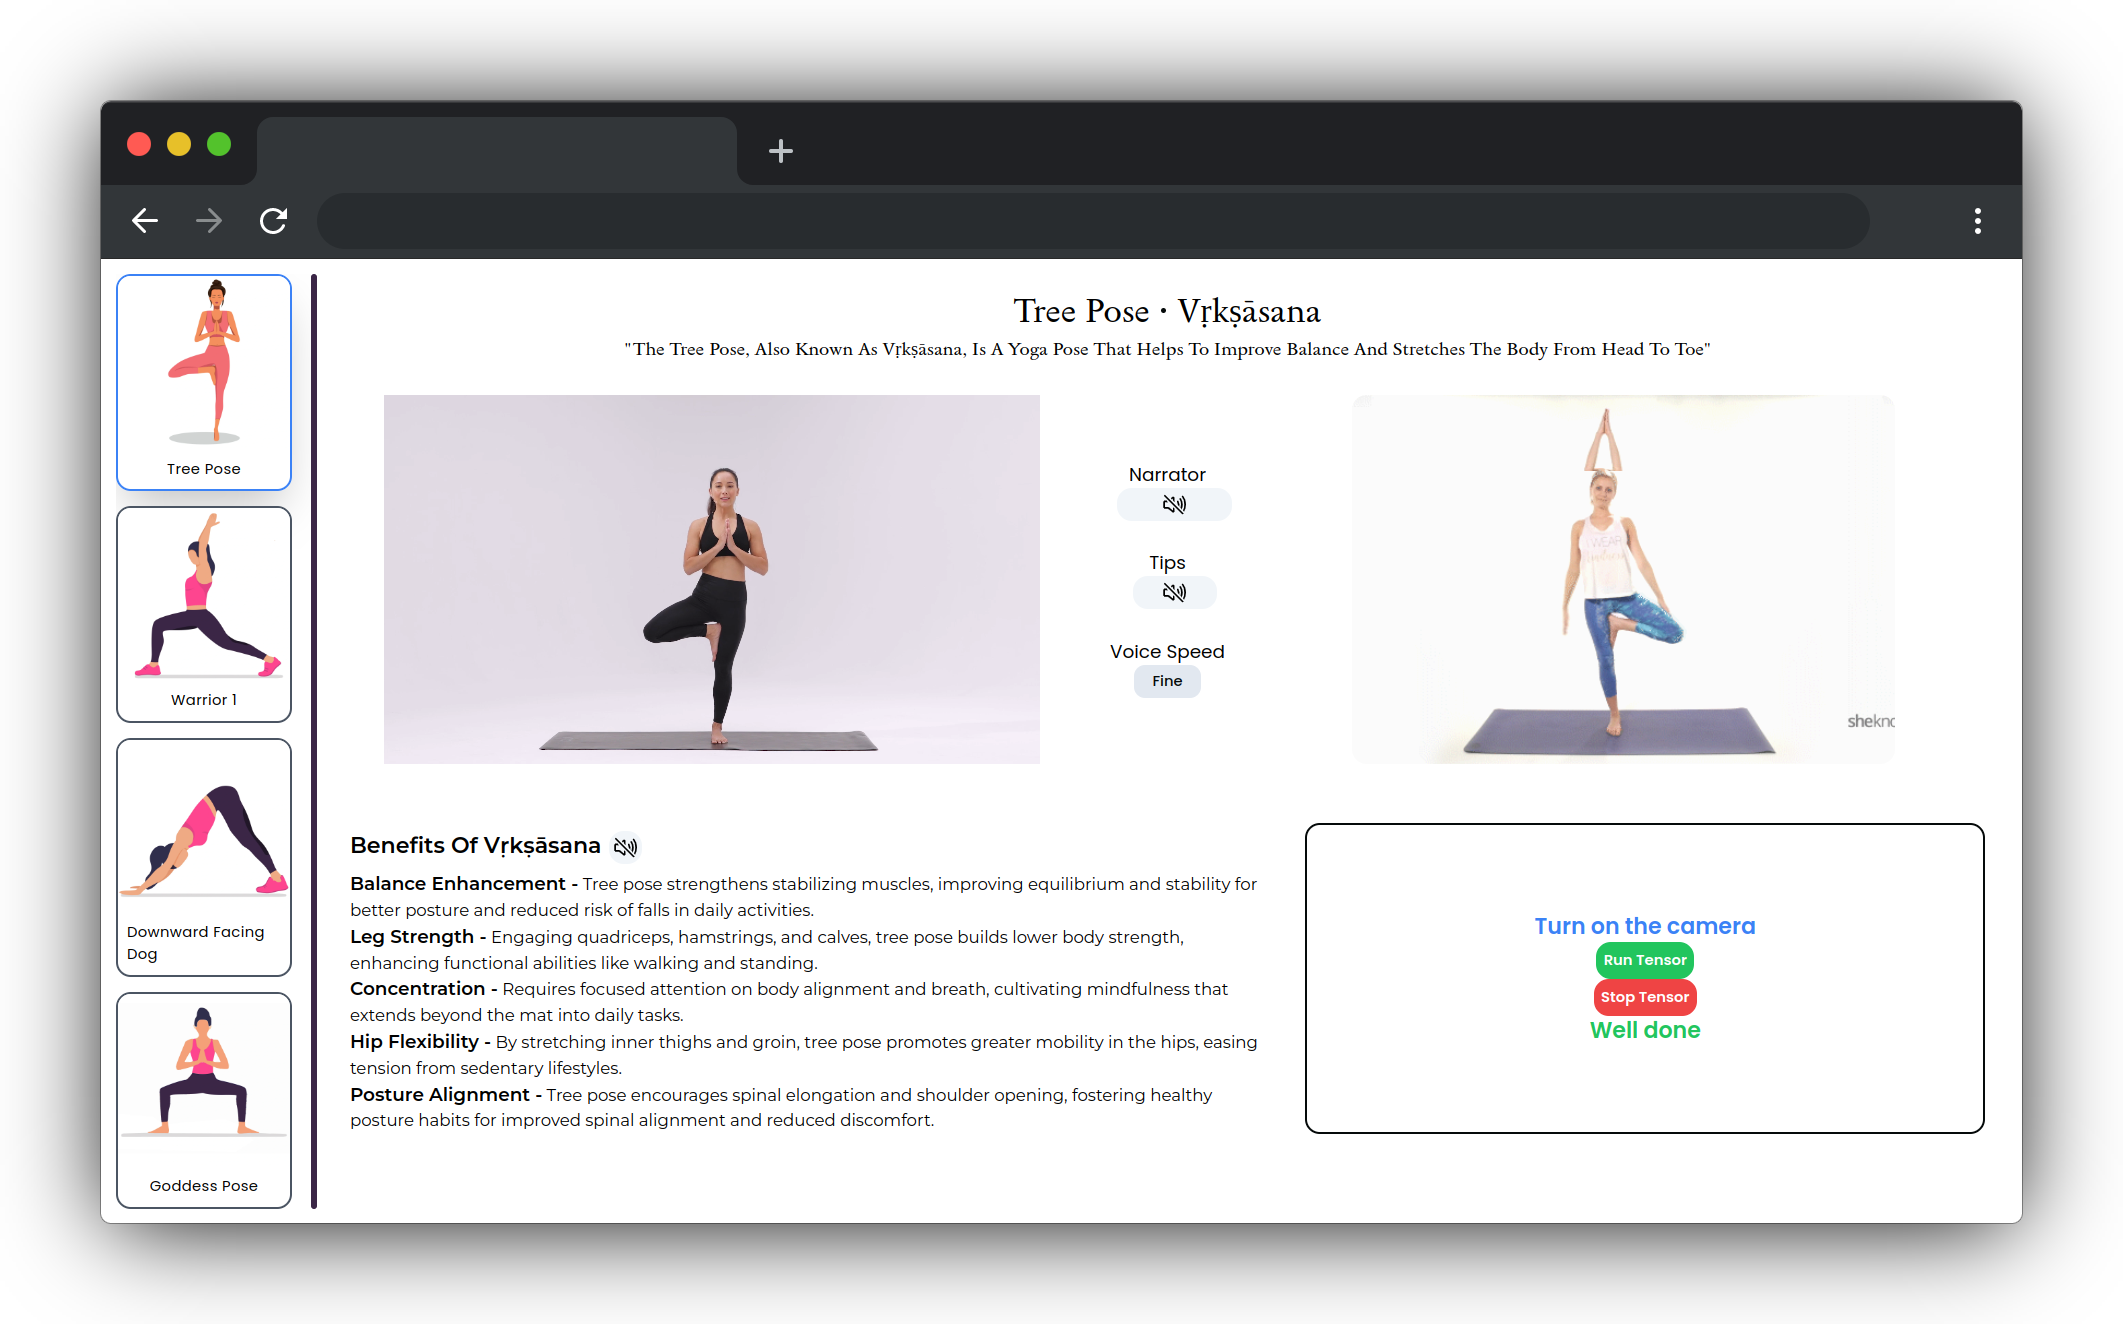
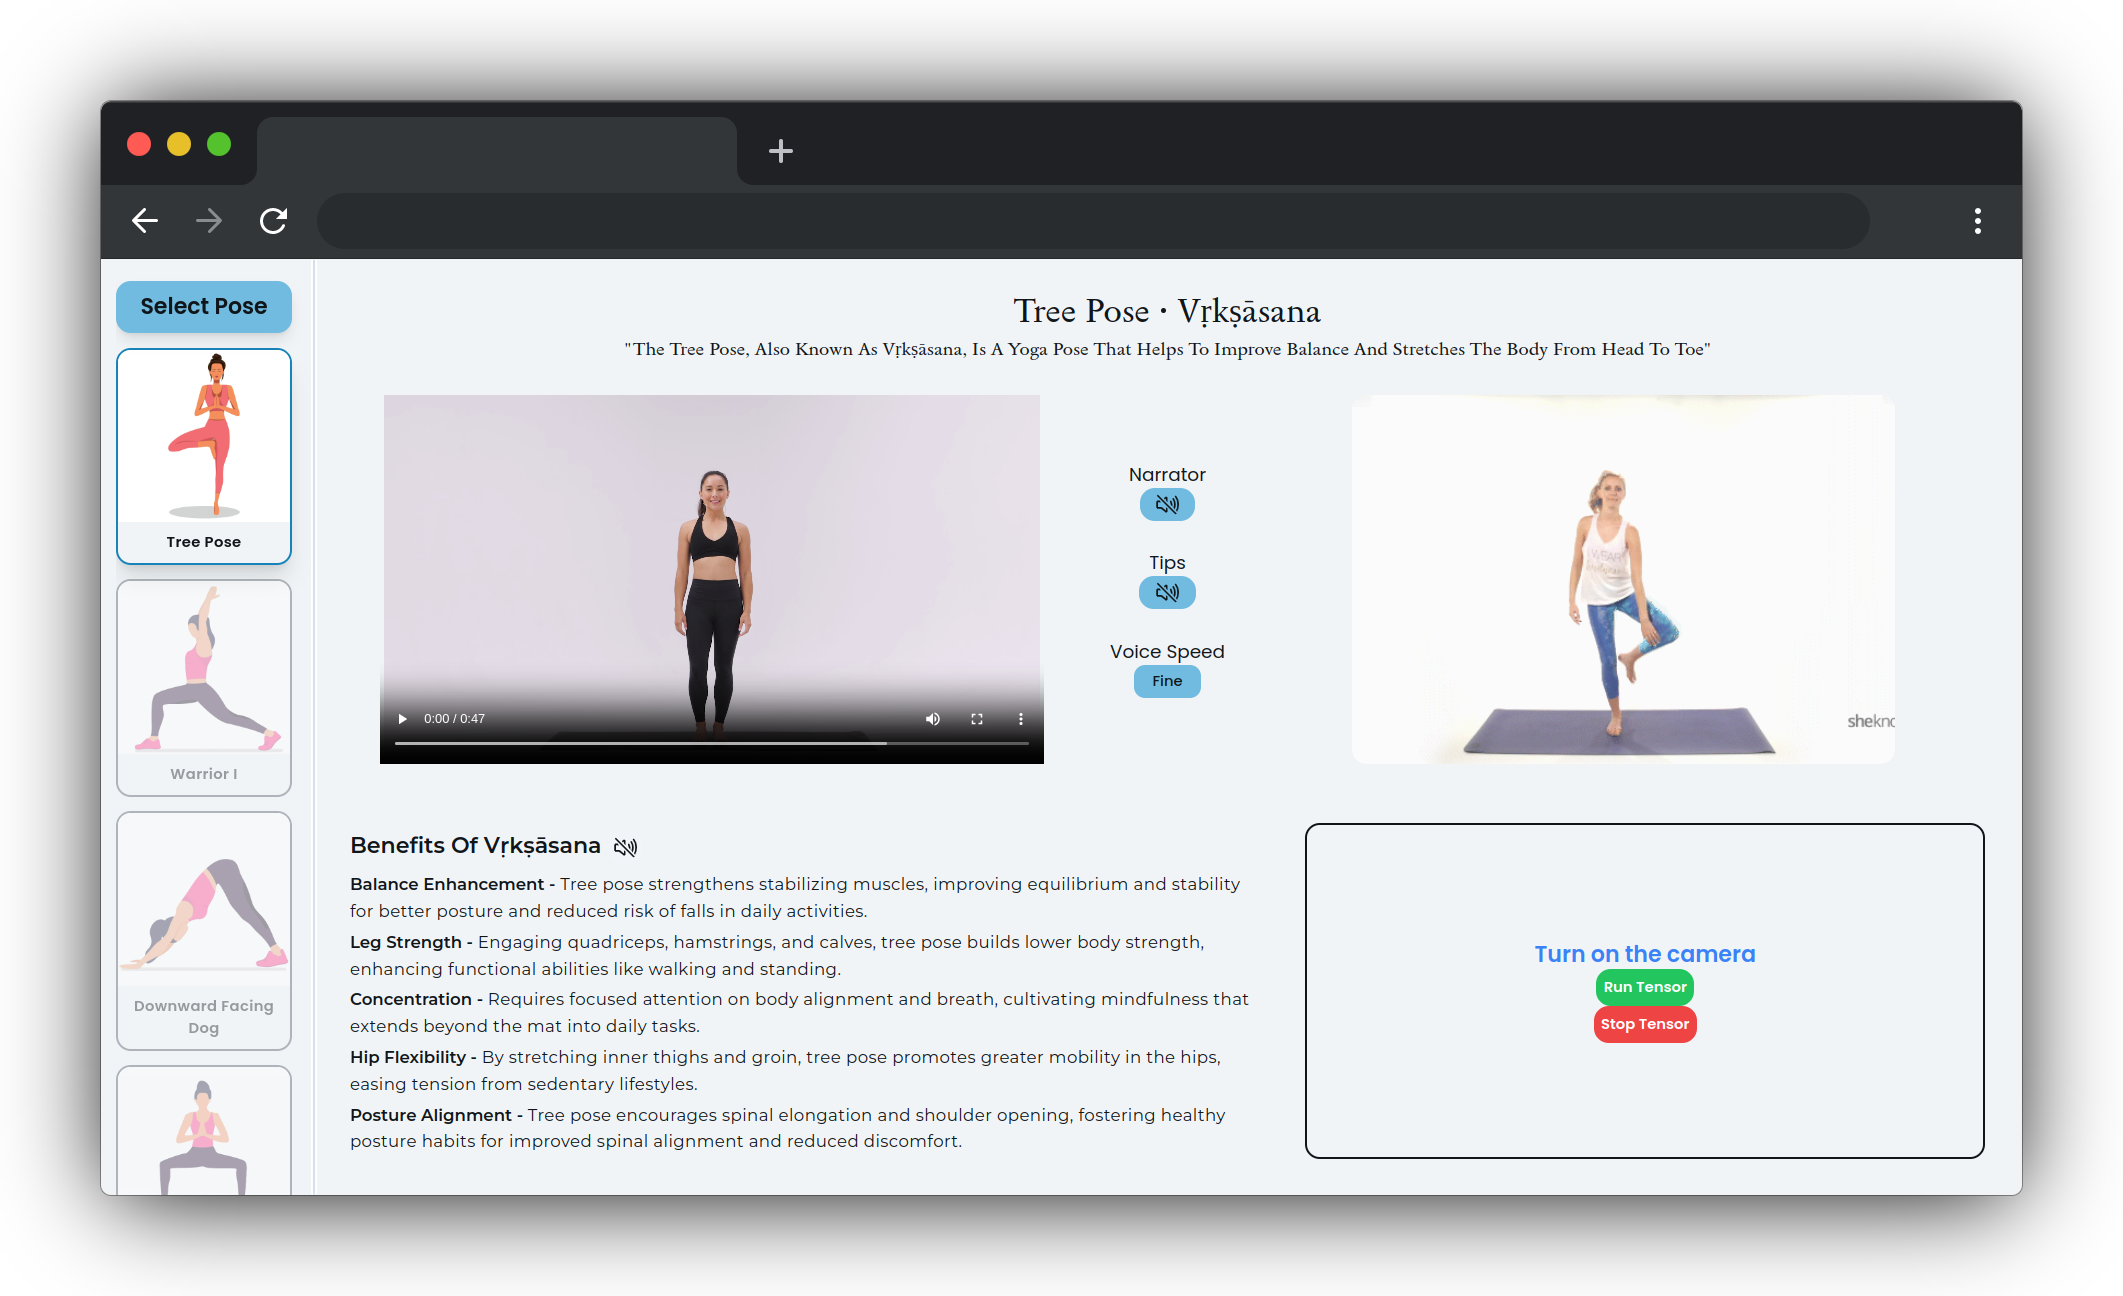
ui improvement

diff --git a/src/app/components/Sidebar.tsx b/src/app/components/Sidebar.tsx
@@ -1,33 +1,75 @@
 'use client'
 
 import Image from "next/image"
-import {YogaPose} from "../interface/CustomInterface"
-import { useState } from "react";
-
+import { YogaPose } from "../interface/CustomInterface"
+import { useEffect, useState } from "react";
+import { ToastContainer, toast, Zoom, } from 'react-toastify';
+import 'react-toastify/dist/ReactToastify.css';
 
 export default function Sidebar(props: any) {
-    const [highlight,setHighlight] = useState<number>(101);
-    
-    const pose = props.pose
-    
+    const [highlight, setHighlight] = useState<number>(101);
+    const [grayedOut, setGrayedOut] = useState<number | null>(null);
 
-    // console.log(highlight);
-    
+    const pose = props?.pose
+
+
     function handleSelectYogaPose(selectedPose: YogaPose) {
+        setGrayedOut(selectedPose.id)
         setHighlight(selectedPose.id)
         props.setSelectedPose(selectedPose.id)
     }
 
+    const selectionMessage: Array<string> = ["👍 Great choice! Awesome!", "🌟 Fantastic pick! You're on fire!", "🙌 Amazing selection! Keep it up!", "💪 Superb choice! You're crushing it!", "🔥 Brilliant pick! You're unstoppable!", "🎉 Impressive choice! Keep that momentum!", "🌟 Terrific pick! You're a star!", "🌺 Splendid selection! You're in your element!", "🌟 Marvelous pick! Keep up the magic!"]
+    const notify = () => toast(
+        selectionMessage[Math.floor(Math.random() * selectionMessage.length)],
+        { progressStyle: { color: "green" } }
+    )
+
+    useEffect(() => {
+        notify()
+    }, [highlight])
+
+    function toggleDarkMode() {
+        console.log("prsd");
+    const body = document.querySelector('body');
+    const dataTheme = body.getAttribute('data-theme');
+
+    if (dataTheme === 'dark') {
+        body.setAttribute('data-theme', 'light');
+    } else {
+        body.setAttribute('data-theme', 'dark');
+    }
+    }
+
     return (
         <>
+            <ToastContainer
+                position="top-right"
+                autoClose={3000}
+                hideProgressBar={false}
+                newestOnTop={false}
+                closeOnClick
+                rtl={false}
+                pauseOnFocusLoss
+                draggable
+                pauseOnHover={false}
+                theme="light"
+                transition={Zoom}
+            />
+
             <div className="lg:w-[22%] xl:w-[12%]">
-                <div className="m-4 mx-4  grid grid-cols-1 gap-4 overflow-y-auto  sidebar_scrollable">
+                <div className="mx-4  grid grid-cols-1 gap-4 overflow-y-auto  sidebar_scrollable">
+                    <span
+                        onClick={toggleDarkMode}
+                        className="text-2xl text-center mt-6 bg-secondary p-3 rounded-2xl font-semibold text-text sticky top-3 z-50 shadow-lg">
+                        Select Pose
+                    </span>
                     {pose && pose?.map((name: YogaPose, idx: number) => (
 
                         <div
                             key={idx}
                             onClick={() => handleSelectYogaPose(name)}
-                            className={`min-h-[100px] rounded-2xl overflow-hidden hover:bg-gray-200 border-[3px] ${highlight === name.id ? "border-blue-500 shadow-2xl" : "border-gray-600"}`}>
+                            className={`min-h-[100px] rounded-2xl overflow-hidden hover:bg-accent border-[3px] ${highlight === name.id ? "border-accent shadow-xl opacity-100 brightness-100 animate-fade animate-once animate-ease-in animate-duration-300" : "border-gray-600"} ${grayedOut && "opacity-40 brightness-60"}`}>
                             <Image
                                 src={`/pose/image/webp/${name?.image}`}
                                 alt={name?.name}
@@ -39,12 +81,14 @@ export default function Sidebar(props: any) {
 
                             </Image>
 
-                            <span className="m-1.5 p-1 capitalize tracking-wide flex justify-center">
+                            <span className="m-1.5 p-1 capitalize tracking-wide flex justify-center text-text text-center font-semibold">
                                 {name?.name}
                             </span>
                         </div>
-
                     ))}
+
+                    <div className="mb-10 text-center text-xl">&copy; RAGE  2024</div>
+
 
                 </div>
             </div>

diff --git a/src/app/components/Mainbar.tsx b/src/app/components/Mainbar.tsx
@@ -143,7 +143,7 @@ export default function MainBar(props: YogaPoseDetailed) {
 
     return (
         <>
-            <div className="lg:w-[78%] xl:w-[88%] mt-5 sidebar_scrollable">
+            <div className="lg:w-[78%] xl:w-[88%] mt-5 sidebar_scrollable text-text">
                 <div className="m-4 mx-4">
                     {/* Title */}
                     <div className="grid grid-cols-1 justify-center place-items-center gap-2">
@@ -178,10 +178,10 @@ export default function MainBar(props: YogaPoseDetailed) {
 
                     {/* Controller */}
                     <div className="sm:col-span-1 min-h-[400px]">
-                        <div className="flex text-center flex-col justify-center items-center align-middle h-full max-h-[400px] gap-8">
+                        <div className="flex text-center flex-col justify-center items-center align-middle h-full w-full max-h-[400px] gap-8">
                             <div>
                                 <span className="text-xl">Narrator</span>
-                                <span onClick={() => playAudio(props?.audioData?.mainAudio, "narrator")} className="inline-flex justify-center w-full  align-middle mx-2 rounded-2xl bg-slate-100 hover:bg-slate-200 duration-300 cursor-pointer ">
+                                <span onClick={() => playAudio(props?.audioData?.mainAudio, "narrator")} className="inline-flex justify-center w-1/2  align-middle  rounded-2xl bg-secondary hover:brightness-75 duration-300 cursor-pointer ">
                                     {audioState === "narrator" ? (
                                         <IoVolumeMediumOutline className="text-4xl font-bold p-1" />
 
@@ -193,9 +193,9 @@ export default function MainBar(props: YogaPoseDetailed) {
                                 </span>
                             </div>
 
-                            <div>
+                            <div className="flex flex-col w-full">
                                 <span className="text-xl">Tips</span>
-                                <span onClick={() => playAudio(props?.audioData?.narratorSegment, "tips")} className="inline-flex justify-center w-full  align-middle mx-2 rounded-2xl bg-slate-100 hover:bg-slate-200 duration-300 cursor-pointer ">
+                                <span onClick={() => playAudio(props?.audioData?.narratorSegment, "tips")} className="inline-flex justify-center w-1/2 mx-auto align-middle  rounded-2xl bg-secondary hover:brightness-75 duration-300 cursor-pointer ">
                                     {audioState === "tips" ? (
                                         <IoVolumeMediumOutline className="text-4xl font-bold p-1" />
 
@@ -212,7 +212,7 @@ export default function MainBar(props: YogaPoseDetailed) {
                                 <div className="relative">
                                     <button
                                         onClick={() => setDropdown(!dropdown)}
-                                        className="bg-slate-200 rounded-xl text-text font-medium px-5 py-1.5 text-center inline-flex items-center capitalize">{playbackSpeed}</button>
+                                        className="bg-secondary hover:brightness-75 rounded-xl text-text font-medium px-5 py-1.5 text-center inline-flex items-center capitalize">{playbackSpeed}</button>
 
 
                                     {dropdown &&
@@ -261,11 +261,11 @@ export default function MainBar(props: YogaPoseDetailed) {
                             </div>
 
                             {props?.benefits?.map((text, idx) => (
-                                <div key={idx}>
-                                    <span className="text-xl font-semibold">
+                                <div key={idx} className="mb-1">
+                                    <span className="text-lg font-semibold">
                                         {text.split(":")[0]} -
                                     </span>
-                                    <span className="text-lg">
+                                    <span className="text-lg leading-relaxed tracking-wide">
                                         {text.split(":")[1]}
                                     </span>
                                 </div>

diff --git a/src/app/components/helper/DropdownSelect.tsx b/src/app/components/helper/DropdownSelect.tsx
@@ -11,14 +11,14 @@ export default function DropdownSelect(props: any) {
 
     return (
         <>
-            <div className="mt-2 ml-4">
+            <div className="ml-[1.05rem] mt-2">
                 <div className="rounded-lg shadow absolute animate-fade-down animate-once animate-ease-in-out animate-duration-[300ms]">
-                    <ul className="py-0.5 px-2 rounded-xl bg-slate-200 capitalize">
-                        <li onClick={() => handleOption('slower')} className="py-0.5 px-2 rounded-xl hover:bg-slate-300 duration-500 cursor-pointer">slowest</li>
-                        <li onClick={() => handleOption('slow')} className="py-0.5 px-2 rounded-xl hover:bg-slate-300 duration-500 cursor-pointer">slow</li>
-                        <li onClick={() => handleOption('fine')} className="py-0.5 px-2 rounded-xl hover:bg-slate-300 duration-500 cursor-pointer">fine</li>
-                        <li onClick={() => handleOption('fast')} className="py-0.5 px-2 rounded-xl hover:bg-slate-300 duration-500 cursor-pointer">fast</li>
-                        <li onClick={() => handleOption('fastest')} className="py-0.5 px-2 rounded-xl hover:bg-slate-300 duration-500 cursor-pointer">fastest</li>
+                    <ul className="py-2 px-2 rounded-xl bg-secondary capitalize">
+                        <li onClick={() => handleOption('slower')} className="py-0.5 px-2 rounded-xl hover:bg-secondary hover:brightness-90 duration-500 cursor-pointer">slowest</li>
+                        <li onClick={() => handleOption('slow')} className="py-0.5 px-2 rounded-xl hover:bg-secondary hover:brightness-90 duration-500 cursor-pointer">slow</li>
+                        <li onClick={() => handleOption('fine')} className="py-0.5 px-2 rounded-xl hover:bg-secondary hover:brightness-90 duration-500 cursor-pointer">fine</li>
+                        <li onClick={() => handleOption('fast')} className="py-0.5 px-2 rounded-xl hover:bg-secondary hover:brightness-90 duration-500 cursor-pointer">fast</li>
+                        <li onClick={() => handleOption('fastest')} className="py-0.5 px-2 rounded-xl hover:bg-secondary hover:brightness-90 duration-500 cursor-pointer">fastest</li>
                     </ul>
                 </div>
             </div>

diff --git a/src/app/api/pose/poseApiData.tsx b/src/app/api/pose/poseApiData.tsx
@@ -119,12 +119,12 @@ const poseInfo: YogaPoseAPI[] = [
         audioData: {
             mainAudio: "mountain.mp3",
             benefits: "benefits.mp3",
-            narratorSegment: ["seg0.mp3", "seg1.mp3", "seg2.mp3", "seg3.mp3", "seg4.mp3", "seg4.mp3"]
+            narratorSegment: ["seg0.mp3", "seg1.mp3", "seg2.mp3", "seg3.mp3", "seg4.mp3", "seg5.mp3"]
         }
     },
 
     {
-        id: 105,
+        id: 106,
         name: "warrior II",
         originalName: "Vīrabhadrāsana II",
         description: "Warrior II pose also known as Vīrabhadrāsana II is the second of three related powerful standing postures that improve strength and flexibility.",
@@ -142,14 +142,11 @@ const poseInfo: YogaPoseAPI[] = [
             set: 2, 
         },
         audioData: { //mp3
-            mainAudio: "", 
-            benefits: "",
-            narratorSegment: []
+            mainAudio: "warrior2.mp3", 
+            benefits: "benefits.mp3",
+            narratorSegment: ["seg0.mp3", "seg1.mp3", "seg2.mp3", "seg3.mp3", "seg4.mp3", "seg4.mp3","seg4.mp3"]
         }
     },
-
-
-
 
 ];
 

diff --git a/src/app/globals.css b/src/app/globals.css
@@ -3,20 +3,21 @@
 @tailwind utilities;
 
 :root {
-  --text: #050a0a;
-  --background: #f8fafc;
-  --primary: #3ca6cd;
-  --secondary: #7ecbe7;
-  --accent: #4abee8;
-  --scollbar: #3b2646;
+  --text: #101519;
+  --background: #f1f4f6;
+  --primary: #245770;
+  --secondary: #71bbe0;
+  --accent: #1883b9;
 }
-:root[data-theme="dark"] {
-  --text: #f5fafa;
-  --background: #030507;
-  --primary: #329cc3;
-  --secondary: #186581;
-  --accent: #178bb5;
+[data-theme="dark"] {
+  --text: #e5ebef;
+  --background: #0a1216;
+  --primary: #8ec1da;
+  --secondary: #1f688c;
+  --accent: #46b2e7;
 }
+
+
 
 
 *{
@@ -26,6 +27,10 @@
 
 body{
   overflow: hidden;
+  background: var(--background);
+  transition: 1s;
+
+
 }
 
 
@@ -63,3 +68,6 @@ body{
 ::-webkit-scrollbar-corner {
   background: transparent;
 }
+
+
+

diff --git a/tailwind.config.ts b/tailwind.config.ts
@@ -14,11 +14,11 @@ const config: Config = {
           "conic-gradient(from 180deg at 50% 50%, var(--tw-gradient-stops))",
       },
       colors: {
-        'text': '#050a0a',
-        'background': '#f8fafc',
-        'primary': '#3ca6cd',
-        'secondary': '#7ecbe7',
-        'accent': '#4abee8',
+        'text': 'var(--text)',
+        'background': 'var(--background)',
+        'primary': 'var(--primary)',
+        'secondary': 'var(--secondary)',
+        'accent': 'var(--accent)',
        },
     },
   },
